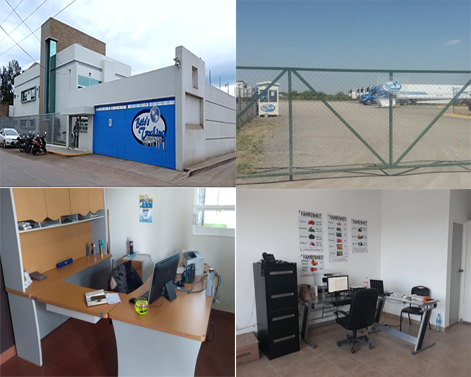
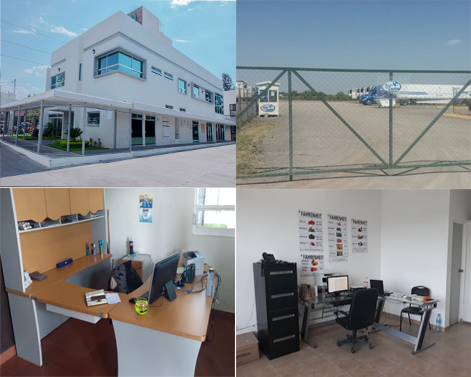
cambios para foto

Changed region(s): [[0.0, 0.0, 0.5053, 0.496]]

diff --git a/app/components/home/home.html b/app/components/home/home.html
@@ -6,43 +6,57 @@
                 <li data-target="#myCarousel" data-slide-to="0" class="active" contenteditable="false"></li>
                 <li data-target="#myCarousel" data-slide-to="1" class="" contenteditable="false"></li>
                 <li data-target="#myCarousel" data-slide-to="2" class="" contenteditable="false"></li>
+                <li data-target="#myCarousel" data-slide-to="3" class="" contenteditable="false"></li>
             </ol>
             <div class="carousel-inner">
                 <div class="item active">
-                    <img class="img-responsive" src="resources/images/background/bg-title.jpg" alt="" class="">
+                    <img class="img-responsive" src="resources/images/images-betos/sizing/custom_1.png" alt="" class="">
                     <div class="carousel-caption" style="margin-bottom: 10%;">
-                        <h1 class="toggleHeading">Primera Imagen</h1>
-                        <p class="toggleCaption">
-                            Description for First Slide, this First Slide.
+                        <h1 class="toggleHeading">{{'msg.pagina.home.slider.pasion' | translate}}</h1>
+                        <p class="toggleCaption" style="font-size: 1.5em">
+                            {{'msg.pagina.home.slider.pasion.texto' | translate}}
                             <br/>
                             <br/>
-                            <button class="btn btn-primary">Contácto</button>
+                            <a class="btn btn-primary" ui-sref="contacto">{{'msg.general.button.contacto' | translate}}</a>
                         </p>
                     </div>
                 </div>
                 <div class="item">
-                    <img class="img-responsive" src="resources/images/background/bg-title.jpg" alt="" class="">
+                    <img class="img-responsive" src="resources/images/images-betos/sizing/custom_2.png" alt="" class="">
                     <div class="carousel-caption" style="margin-bottom: 10%;">
                         <p class="toggleCaption">
-                            <h1 class="toggleHeading">Segunda Imagen</h1>
-                            <p class="toggleCaption">
-                                Description for Second Slide, this is Second Slide.
+                            <h1 class="toggleHeading">{{'msg.pagina.home.slider.compromiso' | translate}}</h1>
+                            <p class="toggleCaption" style="font-size: 1.5em">
+                                {{'msg.pagina.home.slider.compromiso.texto' | translate}}
                                 <br/>
                                 <br/>
-                                <button class="btn btn-primary">Más información</button>
+                                <a class="btn btn-primary" ui-sref="contacto">{{'msg.general.button.contacto' | translate}}</a>
                             </p>
                     </div>
                 </div>
                 <div class="item">
-                    <img class="img-responsive" src="resources/images/background/bg-title.jpg" alt="" class="">
+                    <img class="img-responsive" src="resources/images/images-betos/sizing/custom_3.png" alt="" class="">
                     <div class="carousel-caption" style="margin-bottom: 10%;">
                         <p class="toggleCaption">
-                            <h1 class="toggleHeading">Tercera Imagen</h1>
-                            <p class="toggleCaption">
-                                Description for Third Slide, this is Third Slide.
+                            <h1 class="toggleHeading">{{'msg.pagina.home.slider.confianza' | translate }}</h1>
+                            <p class="toggleCaption" style="font-size: 1.5em">
+                                {{'msg.pagina.home.slider.confianza.texto' | translate}}
                                 <br/>
                                 <br/>
-                                <button class="btn btn-primary">Más información</button>
+                                <a class="btn btn-primary" ui-sref="contacto">{{'msg.general.button.contacto' | translate}}</a>
+                            </p>
+                    </div>
+                </div>
+                <div class="item">
+                    <img class="img-responsive" src="resources/images/images-betos/sizing/custom_4.png" alt="" class="">
+                    <div class="carousel-caption" style="margin-bottom: 10%;">
+                        <p class="toggleCaption">
+                            <h1 class="toggleHeading">{{'msg.pagina.home.slider.respeto' | translate}}</h1>
+                            <p class="toggleCaption" style="font-size: 1.5em">
+                                {{'msg.pagina.home.slider.respeto.texto' | translate}}
+                                <br/>
+                                <br/>
+                                <a class="btn btn-primary" ui-sref="contacto">{{'msg.general.button.contacto' | translate}}</a>
                             </p>
                     </div>
                 </div>
@@ -270,15 +284,13 @@
                     <article class="inner-box">
                         <figure class="image-box">
                             <a href="#">
-                                <img src="resources/images/resource/featured-image-1.jpg" alt="" title="">
+                                <img src="resources/images/images-betos/sizing/custom_370x202.png" alt="" title="">
                             </a>
                         </figure>
                         <div class="content">
-                            <h3>
-                                <a href="#">Packaging &amp; Storage</a>
-                            </h3>
+                            <h3>Carga y descarga</h3>
                             <div class="text">
-                                <p>Lorem ipsum dolor sit amet, consetetur sadipscing elitr, sed diam nonumy eirmod tempor invidunt ut labore et dolore magna aliquyam erat, sed diam voluptua. At vero eos et accusam et justo duo dolores et ea rebum.</p>
+                                <p>Carga y descarga de mercancia en origen y destino</p>
                             </div>
                         </div>
                     </article>
@@ -289,15 +301,13 @@
                     <article class="inner-box">
                         <figure class="image-box">
                             <a href="#">
-                                <img src="resources/images/resource/featured-image-2.jpg" alt="" title="">
+                                <img src="resources/images/images-betos/sizing/custom1_370x202.png" alt="" title="">
                             </a>
                         </figure>
                         <div class="content">
-                            <h3>
-                                <a href="#">Fast Delivery Transport</a>
-                            </h3>
+                            <h3>Rápida entrega</h3>
                             <div class="text">
-                                <p>Lorem ipsum dolor sit amet, consetetur sadipscing elitr, sed diam nonumy eirmod tempor invidunt ut labore et dolore magna aliquyam erat, sed diam voluptua. At vero eos et accusam et justo duo dolores et ea rebum.</p>
+                                <p>Procuramos hacer la entrega lo más rápido posible, tomando muy en cuenta los tiempos del cliente.</p>
                             </div>
                         </div>
                     </article>
@@ -308,15 +318,13 @@
                     <article class="inner-box">
                         <figure class="image-box">
                             <a href="#">
-                                <img src="resources/images/resource/featured-image-3.jpg" alt="" title="">
+                                <img src="resources/images/images-betos/sizing/custom2_370x202.png" alt="" title="">
                             </a>
                         </figure>
                         <div class="content">
-                            <h3>
-                                <a href="#">Logistic Strategies</a>
-                            </h3>
+                            <h3>Estrategia de logistica</h3>
                             <div class="text">
-                                <p>Lorem ipsum dolor sit amet, consetetur sadipscing elitr, sed diam nonumy eirmod tempor invidunt ut labore et dolore magna aliquyam erat, sed diam voluptua. At vero eos et accusam et justo duo dolores et ea rebum.</p>
+                                <p>Dentro de la estrategia, calculamos los tiempos entre rutas, tomando en cuenta los contratiempos que puedan surgir en el camino.</p>
                             </div>
                         </div>
                     </article>

diff --git a/app/components/galeria/galeria.html b/app/components/galeria/galeria.html
@@ -2,36 +2,95 @@
     <div class="row">
         <div class="galeria">
             <div class="figura">
-                <a href="resources/images/images-betos/002.jpg" data-fancybox="gallery">
-                    <img src="resources/images/images-betos/002.jpg">
+                <a href="resources/images/images-betos/gallery/001.jpg" data-fancybox="gallery">
+                    <img src="resources/images/images-betos/gallery/001.jpg">
                 </a>
             </div>
             <div class="figura">
-                <a href="resources/images/images-betos/003.jpg" data-fancybox="gallery">
-                    <img src="resources/images/images-betos/003.jpg">
+                <a href="resources/images/images-betos/gallery/002.jpg" data-fancybox="gallery">
+                    <img src="resources/images/images-betos/gallery/002.jpg">
                 </a>
             </div>
             <div class="figura">
-                <a href="resources/images/images-betos/004.jpg" data-fancybox="gallery">
-                    <img src="resources/images/images-betos/004.jpg">
+                <a href="resources/images/images-betos/gallery/003.jpg" data-fancybox="gallery">
+                    <img src="resources/images/images-betos/gallery/003.jpg">
                 </a>
             </div>
             <div class="figura">
-                <a href="resources/images/images-betos/005.jpg" data-fancybox="gallery">
-                    <img src="resources/images/images-betos/005.jpg">
+                <a href="resources/images/images-betos/gallery/004.jpg" data-fancybox="gallery">
+                    <img src="resources/images/images-betos/gallery/004.jpg">
                 </a>
             </div>
             <div class="figura">
-                <a href="resources/images/images-betos/006.jpg" data-fancybox="gallery">
-                    <img src="resources/images/images-betos/006.jpg">
+                <a href="resources/images/images-betos/gallery/005.jpg" data-fancybox="gallery">
+                    <img src="resources/images/images-betos/gallery/005.jpg">
                 </a>
             </div>
             <div class="figura">
-                <a href="resources/images/images-betos/A-6.jpg" data-fancybox="gallery">
-                    <img src="resources/images/images-betos/A-6.jpg">
+                <a href="resources/images/images-betos/gallery/006.jpg" data-fancybox="gallery">
+                    <img src="resources/images/images-betos/gallery/006.jpg">
                 </a>
             </div>
-
+            <div class="figura">
+                <a href="resources/images/images-betos/gallery/007.jpg" data-fancybox="gallery">
+                    <img src="resources/images/images-betos/gallery/007.jpg">
+                </a>
+            </div>
+            <div class="figura">
+                <a href="resources/images/images-betos/gallery/008.jpg" data-fancybox="gallery">
+                    <img src="resources/images/images-betos/gallery/008.jpg">
+                </a>
+            </div>
+            <div class="figura">
+                <a href="resources/images/images-betos/gallery/009.jpg" data-fancybox="gallery">
+                    <img src="resources/images/images-betos/gallery/009.jpg">
+                </a>
+            </div>
+            <div class="figura">
+                <a href="resources/images/images-betos/gallery/011.jpg" data-fancybox="gallery">
+                    <img src="resources/images/images-betos/gallery/011.jpg">
+                </a>
+            </div>
+            <div class="figura">
+                <a href="resources/images/images-betos/gallery/012.jpg" data-fancybox="gallery">
+                    <img src="resources/images/images-betos/gallery/012.jpg">
+                </a>
+            </div>
+            <div class="figura">
+                <a href="resources/images/images-betos/gallery/013.jpg" data-fancybox="gallery">
+                    <img src="resources/images/images-betos/gallery/013.jpg">
+                </a>
+            </div>
+            <div class="figura">
+                <a href="resources/images/images-betos/gallery/014.jpg" data-fancybox="gallery">
+                    <img src="resources/images/images-betos/gallery/014.jpg">
+                </a>
+            </div>
+            <div class="figura">
+                <a href="resources/images/images-betos/gallery/015.jpg" data-fancybox="gallery">
+                    <img src="resources/images/images-betos/gallery/015.jpg">
+                </a>
+            </div>
+            <div class="figura">
+                <a href="resources/images/images-betos/gallery/016.jpg" data-fancybox="gallery">
+                    <img src="resources/images/images-betos/gallery/016.jpg">
+                </a>
+            </div>
+            <div class="figura">
+                <a href="resources/images/images-betos/gallery/017.jpg" data-fancybox="gallery">
+                    <img src="resources/images/images-betos/gallery/017.jpg">
+                </a>
+            </div>
+            <div class="figura">
+                <a href="resources/images/images-betos/gallery/A-1.jpg" data-fancybox="gallery">
+                    <img src="resources/images/images-betos/gallery/A-1.jpg">
+                </a>
+            </div>
+            <div class="figura">
+                <a href="resources/images/images-betos/gallery/A-20.jpg" data-fancybox="gallery">
+                    <img src="resources/images/images-betos/gallery/A-20.jpg">
+                </a>
+            </div>
         </div>
     </div>
 </div>

diff --git a/app/components/infraestructura/infraestructura.html b/app/components/infraestructura/infraestructura.html
@@ -1,6 +1,6 @@
 <div ng-controller="infraestructuraCtrl">
     <!--Page Title-->
-    <section class="page-title" style="background-image:url(resources/images/images-betos/006.jpg);">
+    <section class="page-title" style="background-image:url(resources/images/images-betos/sizing/custom_smaller3.png);">
         <div class="auto-container">
             <h1>{{'msg.pagina.tecnologia.header' | translate}}</h1>
 
@@ -86,7 +86,7 @@
                         <div class="blog-post wow fadeInLeft" data-wow-delay="0ms" data-wow-duration="1500ms">
                             <article class="column-inner">
                                 <figure class="image-box">
-                                    <a href="#"><img src="resources/images/resource/blog-image-1.jpg" alt="" title="Blog"></a>
+                                    <a href="#"><img src="resources/images/images-betos/sizing/custom3_878x372.png" alt="" title="Blog"></a>
                                 </figure>
                                 <div class="lower-part">
                                     <div class="post-info">
@@ -143,7 +143,7 @@
                         <div class="blog-post wow fadeInLeft" data-wow-delay="0ms" data-wow-duration="1500ms">
                             <article class="column-inner">
                                 <figure class="image-box">
-                                    <a href="#"><img src="resources/images/resource/blog-image-1.jpg" alt="" title="Blog"></a>
+                                    <a href="#"><img src="resources/images/images-betos/sizing/custom4_878x372.png" alt="" title="Blog"></a>
                                 </figure>
                                 <div class="lower-part">
                                     <div class="post-info">

diff --git a/app/components/about/about.html b/app/components/about/about.html
@@ -1,6 +1,6 @@
 <div ng-controller="aboutCtrl">
     <!--Page Title-->
-    <section class="page-title" style="background-image:url(resources/images/images-betos/001.jpg);">
+    <section class="page-title" style="background-image:url(resources/images/images-betos/sizing/custom_smaller2.png);">
         <div class="auto-container">
             <h1 class="styled-title">{{'msg.pagina.acercade.header' | translate}}</h1>
             <!--Bread Crumb-->
@@ -98,7 +98,7 @@
                 <div class="col-md-5 col-sm-12 col-xs-12 image-column wow fadeInLeft" data-wow-delay="0ms" data-wo-duration="1000ms">
                     <figure class="image-box">
                         <a href="#">
-                            <img src="resources/images/images-betos/001.jpg" width="471" height="377" alt="" title="">
+                            <img src="resources/images/images-betos/sizing/custom_smaller5.png" width="471" height="377" alt="" title="">
                         </a>
                     </figure>
                 </div>

diff --git a/app/components/servicios/servicios.html b/app/components/servicios/servicios.html
@@ -1,6 +1,6 @@
 <div ng-controller="serviciosCtrl">
     <!--Page Title-->
-    <section class="page-title" style="background-image:url(resources/images/images-betos/002.jpg);">
+    <section class="page-title" style="background-image:url(resources/images/images-betos/sizing/custom_smaller4.png);">
         <div class="auto-container">
             <h1>{{'msg.pagina.servicios.header.servicios' | translate}}</h1>
 
@@ -26,7 +26,7 @@
                 <div class="col-md-5 col-sm-12 col-xs-12 image-column" data-wow-delay="0ms" data-wo-duration="1000ms">
                     <figure class="image-box">
                         <a href="#">
-                            <img src="resources/images/images-betos/A-6.jpg" alt="" title="" style="width: 50%;">
+                            <img src="resources/images/images-betos/sizing/custom_smaller6.png" alt="" title="">
                         </a>
                     </figure>
                 </div>

diff --git a/app/components/contacto/contactoCtrl.js b/app/components/contacto/contactoCtrl.js
@@ -28,10 +28,6 @@ myApp.controller('contactoCtrl', ['$scope', 'cotizacionService', '$log', functio
         markerZamora.bindPopup('<div class="row"><div class="col-xs-12 text-center widget recent-gallery"><figure class="image"><a class="lightbox-image"><IMG BORDER="0" ALIGN="center" src="resources/images/images-betos/map-zamora.png"></a></figure></div><div class="col-xs-12 text-center">' + markerZamoraData + '</div></div>').openPopup();
     }
 
-    $scope.showImage = function() {
-        alert('href="resources/images/resource/author-thumb-2.jpg"')
-    }
-
     $scope.sendMail = function() {
         subject = $scope.mail.asunto;
         message = '<html><head><meta charset="utf-8"></head><body>';

diff --git a/app/components/contacto/contacto.html b/app/components/contacto/contacto.html
@@ -1,6 +1,6 @@
 <div ng-controller="contactoCtrl">
     <!--Page Title-->
-    <section class="page-title" style="background-image:url(resources/images/images-betos/003.jpg);">
+    <section class="page-title" style="background-image:url(resources/images/images-betos/sizing/custom_1.png);">
         <div class="auto-container">
             <h1>{{'msg.pagina.contacto.header' | translate}}</h1>
 

diff --git a/app/components/cotizacion/cotizacion.html b/app/components/cotizacion/cotizacion.html
@@ -1,5 +1,5 @@
 <!--Page Title-->
-<section class="page-title" style="background-image:url(resources/images/background/calculator.jpeg);">
+<section class="page-title" style="background-image:url(resources/images/images-betos/sizing/custom_smaller_7.png);">
     <div class="auto-container">
         <h1>{{'msg.pagina.cotizacion.header.text' | translate}}</h1>
 

diff --git a/app/components/home/homeCtrl.js b/app/components/home/homeCtrl.js
@@ -6,7 +6,7 @@ myApp.controller('homeCtrl', ['$scope', '$translate', function($scope, $translat
     }
 
     var carouselContainer = $('#myCarousel').carousel();
-    var slideInterval = 3000;
+    var slideInterval = 8000;
 
     var winWidth = $(window).innerWidth();
     $(window).resize(function() {
